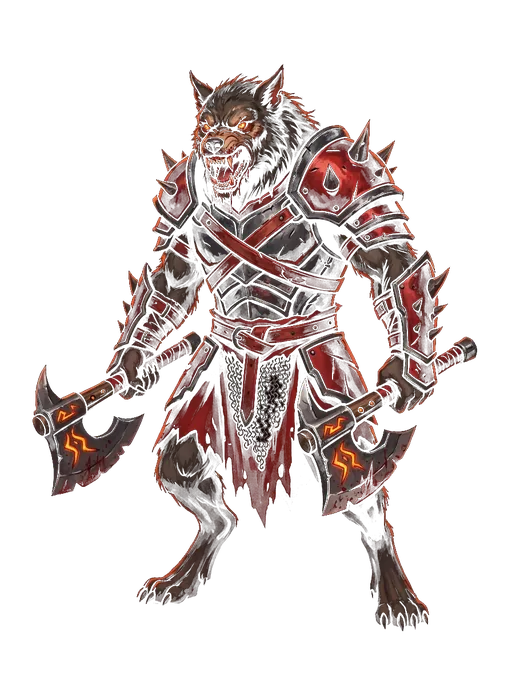
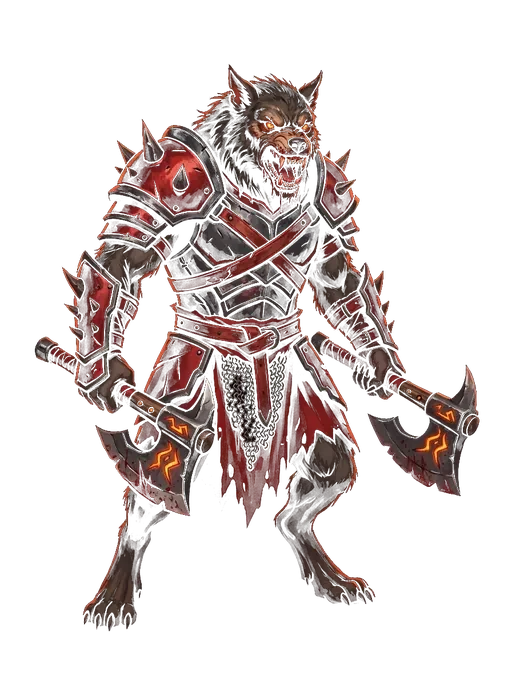
fix(pve): bake ch3 redd cutouts facing left (D-040)
Mirror tank/fighter webps so all four ch3 monsters are pixel-left, list them
in MONSTER_NATIVE_FACE_LEFT, and bust app.js cache — Andrew still saw right-facing soldiers after #197.

diff --git a/client/web-hud/public/app.js b/client/web-hud/public/app.js
@@ -3299,13 +3299,17 @@ const DUMMY_NATIVE_FACE_LEFT = new Set([
   "dummy-stone-totem",
 ]);
 // Only assets authored aiming/looking LEFT. Default native = RIGHT → flip for desired left.
-// Do NOT list: ranger-a, tank-b, redd-tank/fighter, wolf-tank/pitboss, fighter-h (FRONT/RIGHT → flip or leave).
-// Listed = native LEFT (glow); without the entry the board flips them away from cats (Andrew):
-// ch3 redd-support, ch2 wolf-support, ch4 zombie-pitboss.
+// Do NOT list: ranger-a, tank-b, wolf-tank/pitboss (shield/glow RIGHT → flip).
+// fighter-h is near-FRONT — ch1 uses fighter-b instead (RIGHT→flip LEFT).
+// Ch3 redd-* cutouts are pixel-authored LEFT (tank/fighter re-baked) — list all four so
+// CSS scaleX does not mirror them away from the cats (Andrew: все монстры смотрят налево).
 const MONSTER_NATIVE_FACE_LEFT = new Set([
   "assassin-b",
   "fighter-f",
+  "redd-tank-cutout",
+  "redd-fighter-cutout",
   "redd-support-cutout",
+  "redd-pitboss-cutout",
   "wolf-support-cutout",
   "zombie-pitboss-cutout",
 ]);

diff --git a/client/web-hud/public/index.html b/client/web-hud/public/index.html
@@ -6846,6 +6846,6 @@
   </aside>
 
   <nav id="hubTabs" class="hidden" aria-hidden="true"></nav>
-  <script type="module" src="/app.js?v=d041"></script>
+  <script type="module" src="/app.js?v=d040ch3"></script>
 </body>
 </html>

diff --git a/client/web-hud/public/stitch-assets/monsters/battle/README.md b/client/web-hud/public/stitch-assets/monsters/battle/README.md
@@ -16,7 +16,7 @@ Wiring: `monsterBattleArt` / `battleUnitArt` in `app.js` — **faction pools** (
 Ch1 dogs → grey armored cutouts (`tank-b` / `fighter-h` / `ranger-a`, pitboss `tank-d`).
 `fighter-h` = обычный пёс (dual clubs). Do not map ch1 to `fighter-b` — that red dual-axe plate is ch3.
 Ch2 wolves → RGBA `wolf-*-cutout.webp` (tank/fighter/support/pitboss). Do not reintroduce RGB studio plates.
-Ch3 red dogs → RGBA `redd-*-cutout.webp` (shield tank / dual-axe fighter / flaming-sickle support / flaming-sword pitboss).
+Ch3 red dogs → RGBA `redd-*-cutout.webp` (shield tank / dual-axe fighter / flaming-sickle support / flaming-sword pitboss). All four pixel-authored facing **left** (D-040); listed in `MONSTER_NATIVE_FACE_LEFT`.
 Ch4 zombies → RGBA `zombie-*-cutout.webp` (axe tank / cleaver fighter / dagger support / scythe pitboss).
 Ch5 ghosts → RGBA `ghost-*-cutout.webp` (flail-shield tank / scimitar fighter / shaman support / banner-sword pitboss).
 Load/fight backdrops: `pve-load/chapter-2-frost.webp` + `pve-fight/ch2-{entrance,tunnel,boss}.webp` (order locked).
